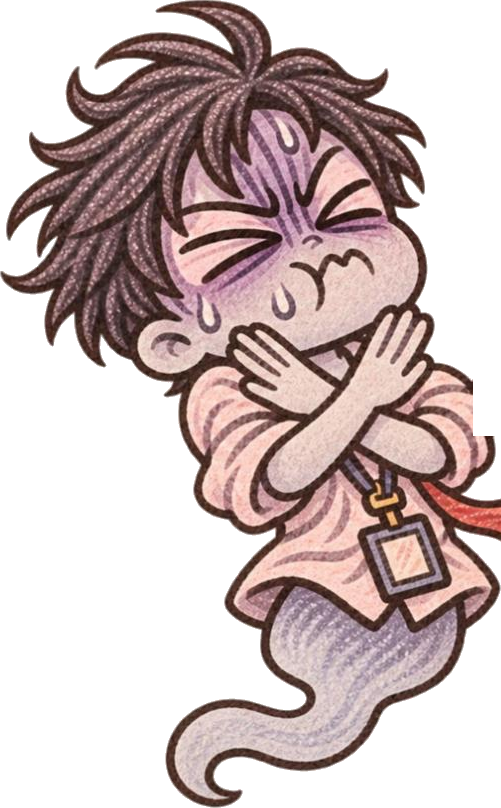
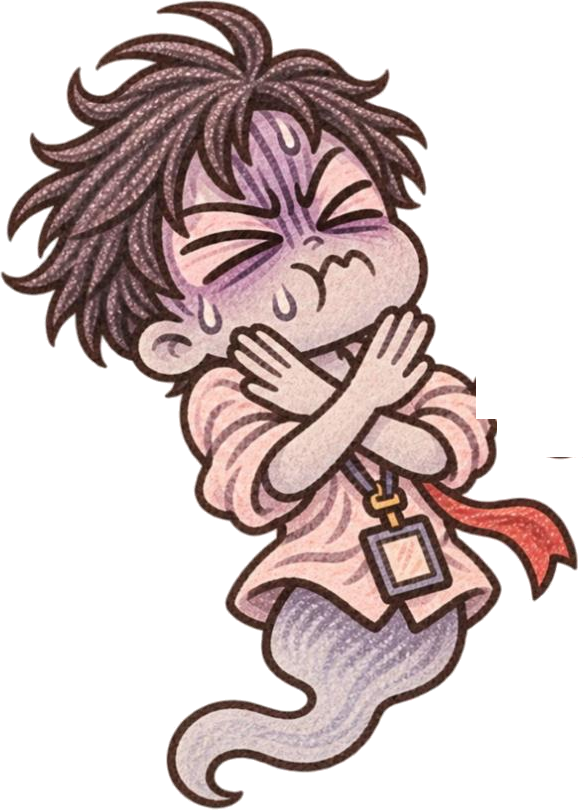
cgmotion：關動態／流暢模式開＝退返原整張靜態圖（之前 disabled 會直接收起）；鏡頭平移唔超過放大邊（A2 開頭唔再露底邊）；壞資料層先濾走；wander 加 seed（幾層一齊行）；B2 孟婆／主角沿輪廓重分層（紅頸巾唔再切直邊）＋同步遊走；測試加：停用／流暢模式／缺層／缺底圖／視差／四張圖鏡頭唔露邊、遊走範圍速度傾斜；shots 支援逐格截（--fixed-fps）
Claude-Session: https://claude.ai/code/session_01UmiVpDHfnmvxquNGxGA5Pc

diff --git a/godot/tools/devkit/cgm/resplit_b2.py b/godot/tools/devkit/cgm/resplit_b2.py
@@ -1,0 +1,37 @@
+#!/usr/bin/env python3
+# B2 孟婆遞湯：角色表（_sheet.png）原本用直線框分開兩個角色，阿福條紅頸巾同衫被切直邊、有一截入咗孟婆層，
+# 兩個角色各自遊走時會見到切口。呢度改用沿輪廓嘅分界線重分，並按舊 layout 換算返位置。
+# 用法：python3 -I resplit_b2.py <layers/b2_soup 資料夾>
+import sys, os, json
+import numpy as np
+from PIL import Image
+d = sys.argv[1]
+sh = np.array(Image.open(os.path.join(d, "_sheet.png")).convert("RGBA"))
+H, W = sh.shape[:2]
+ys, xs = np.mgrid[0:H, 0:W]
+# 阿福嘅範圍（角色表像素）：分界線跟住孟婆隻手同衫袖外沿
+bound = np.select([ys < 400, ys < 462, ys < 500], [560, 574, 595], 682)   # 上段避開湯匙，中段貼住孟婆隻手，下段包埋紅頸巾
+afu_m = xs < bound
+# 兩層位置係各自配對返嚟（縮放比例差少少），接觸位唔會完全啱縫；孟婆層喺隻手嗰段多留幾像素疊喺阿福層後面，補住條縫
+men_bound = np.select([ys < 400, ys < 500], [560, 568], 682)
+men_m = xs >= men_bound
+old_afu_m = (xs < 600) & ~((xs >= 572) & (xs < 600) & (ys >= 390) & (ys < 480))
+old_men_m = xs >= 572
+def bbox(a):
+    yy, xx = np.where(a > 8); return xx.min(), yy.min(), xx.max() + 1, yy.max() + 1
+L = json.load(open(os.path.join(d, "layout.json"), encoding="utf-8"))
+for name, new_m, old_m in [("afu", afu_m, old_afu_m), ("mengpo", men_m, old_men_m)]:
+    ly = next(l for l in L["layers"] if l["name"] == name)
+    ob = bbox(sh[:, :, 3] * old_m); nb = bbox(sh[:, :, 3] * new_m)
+    assert abs((ob[2] - ob[0]) - ly["src_size"][0]) <= 3 and abs((ob[3] - ob[1]) - ly["src_size"][1]) <= 3, (name, ob, ly["src_size"])   # 舊圖閾值略有出入（差 1–2 像素）
+    im = sh.copy(); im[:, :, 3] = im[:, :, 3] * new_m
+    out = Image.fromarray(im).crop(nb)
+    old_p = os.path.join(d, ly["file"]); bak = os.path.join(d, "_old_" + ly["file"])
+    if not os.path.exists(bak): os.rename(old_p, bak)
+    out.save(old_p)
+    sx = ly["w"] / ly["src_size"][0]; sy = ly["h"] / ly["src_size"][1]
+    ly["x"] = round(ly["x"] + (nb[0] - ob[0]) * sx); ly["y"] = round(ly["y"] + (nb[1] - ob[1]) * sy)
+    ly["src_size"] = [int(nb[2] - nb[0]), int(nb[3] - nb[1])]
+    ly["w"] = round(ly["src_size"][0] * sx); ly["h"] = round(ly["src_size"][1] * sy)
+    print(name, "old", ob, "new", nb, ly["x"], ly["y"], ly["w"], ly["h"])
+json.dump(L, open(os.path.join(d, "layout.json"), "w", encoding="utf-8"), ensure_ascii=False, indent=1)
